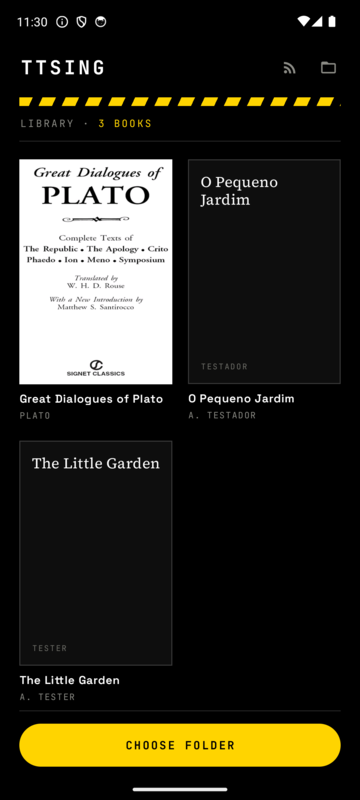
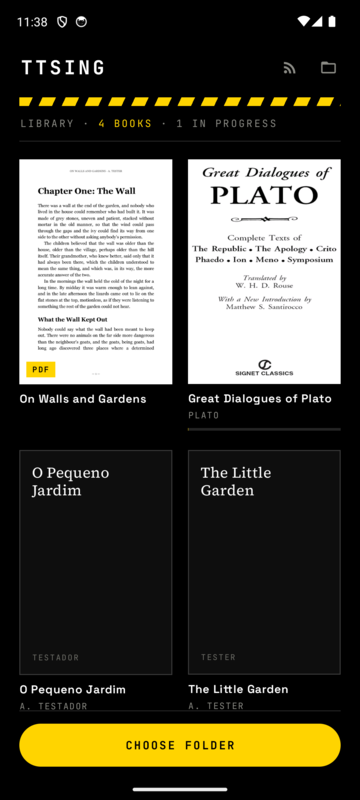
Show PDFs and the new footer on the README
The showcase gains a PDF being read and swaps in a reader screenshot with
the whole-book footer (page 60 of 2571, chapter ticks, time left in the
chapter and the book, the clock). The text now covers PDF reading, the
continuous run of pages, the footer, how the time estimate is measured and
why, and the new packages and tests.

Screenshots are the app on an API 34 emulator, as before.

diff --git a/README.md b/README.md
@@ -1,11 +1,11 @@
 # TTSing
 
-An Android app (Kotlin + Jetpack Compose) that reads your EPUB library aloud with
+An Android app (Kotlin + Jetpack Compose) that reads your EPUB and PDF library aloud with
 text-to-speech, highlighting the current sentence and word karaoke-style and
 auto-scrolling to follow along. Built for Portuguese and English books, with
 background playback and media-notification controls.
 
-![TTSing: the library, the reader mid-sentence, the reading settings sheet, and the news list](docs/screenshots/showcase.png)
+![TTSing: the library, the reader mid-sentence, a PDF being read, the reading settings sheet, and the news list](docs/screenshots/showcase.png)
 
 ## Look
 
@@ -18,14 +18,23 @@ app running, not mockups.
 
 ## Features
 
-- **Library** — pick any folder of `.epub` files (Storage Access Framework); covers,
-  titles, authors and reading progress are cached so the list opens instantly.
+- **Library** — pick any folder of `.epub` and `.pdf` files (Storage Access Framework);
+  covers, titles, authors and reading progress are cached so the list opens instantly.
+  Progress is measured in characters, so a book full of tiny cover and title-page items
+  doesn't look further along than it is.
 - **Reader** — native Compose rendering of chapters (headings, paragraphs, quotes,
   inline images) laid out as **swipeable pages** (left/right), like a real e-reader, with
   a table-of-contents drawer, adjustable font size, and black / light / sepia / system
   themes — black by default, since the app around the page is black whatever the system says.
-  Chapter text is paginated to the screen with `TextMeasurer`; swiping past the last page
-  rolls into the next chapter.
+  The book reads as **one continuous run of pages**: the last page of a chapter is followed
+  straight by the first page of the next, in both directions, and blank spine items are
+  skipped. Chapters stay as navigation — the contents drawer, « », and ticks on the progress
+  bar — never as a wall while reading.
+- **KOReader-style footer** — the page of the *whole book* (`PAGE 60 / 2571`) and its
+  percentage, the clock, a progress bar across the book with a tick at each chapter start,
+  then the time left in the chapter and in the book. Page counts come from paginating every
+  chapter exactly as the pager does, in the background, and are cached per screen size and
+  font size; the font slider moves in 5% steps so each size is one cached layout.
 - **Read-aloud TTS** — Android `TextToSpeech`, one utterance per sentence with a small
   look-ahead queue for smooth speech. The sentence being read turns yellow and the exact
   word inverts to black-on-yellow (`onRangeStart` word callbacks). Pages turn automatically
@@ -39,9 +48,12 @@ app running, not mockups.
   (US / GB / …), the currently-speaking voice is marked, each shows quality and
   offline/online, and a "Device default" option returns to the engine's built-in voice.
   Speed goes up to **2.5×**.
-- **Time to finish** — the bottom bar shows time left in the chapter and in the book. The
-  estimate uses the app's *measured* speaking speed (characters/second, smoothed over real
-  sentences and normalised to rate 1.0), so it adapts to your device, voice and speed.
+- **Time to finish** — time left in the chapter and in the book, from the app's *measured*
+  speaking speed, kept per voice and normalised to rate 1.0. It is total characters over
+  total listening time (pauses included), with a three-hour memory — not an average of each
+  sentence's speed, which is what used to make a 22-hour figure swing by hours between
+  sentences. On screen it only rises on a real change, so a slow passage can't make it climb
+  while you read forward.
 - **Messy-EPUB clean-up** — footnote call-outs, note bodies and page-break markers are
   stripped before rendering, so the voice doesn't read "palavra um" for a footnote number.
   Conservative by design: a well-formed book is left untouched.
@@ -49,6 +61,13 @@ app running, not mockups.
   `<meta>` claims `iso-8859-1` (obeying the declaration turns every `’` into `â€™`, on screen
   *and* in the voice), and `linear="no"` spine items, which are skipped so a book doesn't
   open on a blank cover page.
+- **PDFs** — read as reflowed text rather than page images, so font size, themes,
+  tap-to-read and the highlighting all work as they do for an EPUB. Running headers and page
+  numbers are dropped, lines are joined back into paragraphs, words hyphenated across a line
+  break are mended, a sentence cut by a page or column break is rejoined, and larger type
+  becomes headings. Sections follow the PDF's bookmarks, or runs of ten pages when it has
+  none. The cover is the first page, rendered. Figures are not carried over, and scanned PDFs
+  with no text layer say so rather than showing empty pages (there is no OCR).
 - **Tap to start** — tap any paragraph to begin reading from there (from the sentence you
   actually touched, not the top of the page).
 - **News feeds** — the RSS icon in the library opens straight onto the latest stories across
@@ -121,9 +140,15 @@ press play to see the sentence/word highlighting and auto-scroll.
 ## Architecture
 
 ```
+data/book/    BookDocument — an open book of either format: sections of blocks, a TOC,
+              images. EpubDocument wraps the EPUB parser; everything downstream uses this.
 data/epub/    EpubParser (ZIP + OPF + nav/NCX), ChapterLoader (XHTML → blocks via Jsoup),
               BreakIterator sentence segmentation. Pure JVM, unit-tested.
-data/db/      Room cache of book metadata + reading position.
+data/pdf/     PdfDocument (PDFBox-Android: positioned lines, bookmarks, metadata; first-page
+              cover via PdfRenderer), PdfReflow (lines → paragraphs and headings, headers
+              and page numbers dropped — pure JVM, unit-tested), PdfMetadata.
+data/db/      Room cache of book metadata, reading position and per-layout page counts.
+              Migrated, not dropped, on schema changes — reading positions live here.
 data/news/    RssParser (RSS 2.0 + Atom), ArticleExtractor (readability-style scoring to pull
               the article body out of a news page), HttpFetcher, NewsRepository. Its own Room
               database (`ttsing-news.db`) with real migrations — feed subscriptions are user
@@ -131,7 +156,8 @@ data/news/    RssParser (RSS 2.0 + Atom), ArticleExtractor (readability-style sc
 data/settings DataStore: folder URI, speed, pitch, font size, theme, voice per language
               (`voice_<lang>`), language override per book (`booklang_<id>`).
 data/         BookRepository — SAF folder scan, cover extraction, position persistence.
-tts/          SpeechEngine (sentence queue + word callbacks), BookContentSource
+tts/          SpeakingSpeed (measured chars/second, ratio of sums, per voice),
+              SpeechEngine (sentence queue + word callbacks), BookContentSource
               (sentence stream across block/chapter boundaries), ReadingService
               (foreground media service, MediaSession, notification, audio focus),
               ReadingController (binds the UI to the service).
@@ -139,8 +165,8 @@ anki/         CardDraft (sentence + target word → Anki HTML), CardAudio (its o
               TextToSpeech for synthesizeToFile, so playback is never interrupted),
               AnkiExporter (AnkiDroid AddContentApi: deck, note type, media, note).
 ui/library    Folder picker + cover grid.
-ui/reader     Chapter rendering, karaoke highlight, transport bar, TOC, settings sheet,
-              flashcard sheet.
+ui/reader     Continuous pager over a window of chapters, karaoke highlight, whole-book
+              page counts (BookPages), the footer, TOC, settings sheet, flashcard sheet.
 ```
 
 A reading position is `(chapterIndex, blockIndex, sentenceIndex)`; TTS utterance IDs encode
@@ -150,5 +176,7 @@ it, so every speech callback maps directly to what to highlight and where to scr
 
 Pure-JVM unit tests under `app/src/test` cover EPUB parsing (EPUB 2 NCX + EPUB 3 nav,
 percent-encoded hrefs, cover detection), the XHTML→blocks conversion, Portuguese/English
-sentence segmentation, and end-to-end parsing of the real sample EPUBs. Run with
-`.\gradlew.bat test`.
+sentence segmentation, end-to-end parsing of the real sample EPUBs, PDF reflow (headers
+and page numbers, de-hyphenation, paragraph and page breaks, headings), whole-book page
+arithmetic, and the speaking-speed estimate — including a replay of sentences logged on a
+device, against the old average and the new one. Run with `.\gradlew.bat test`.
